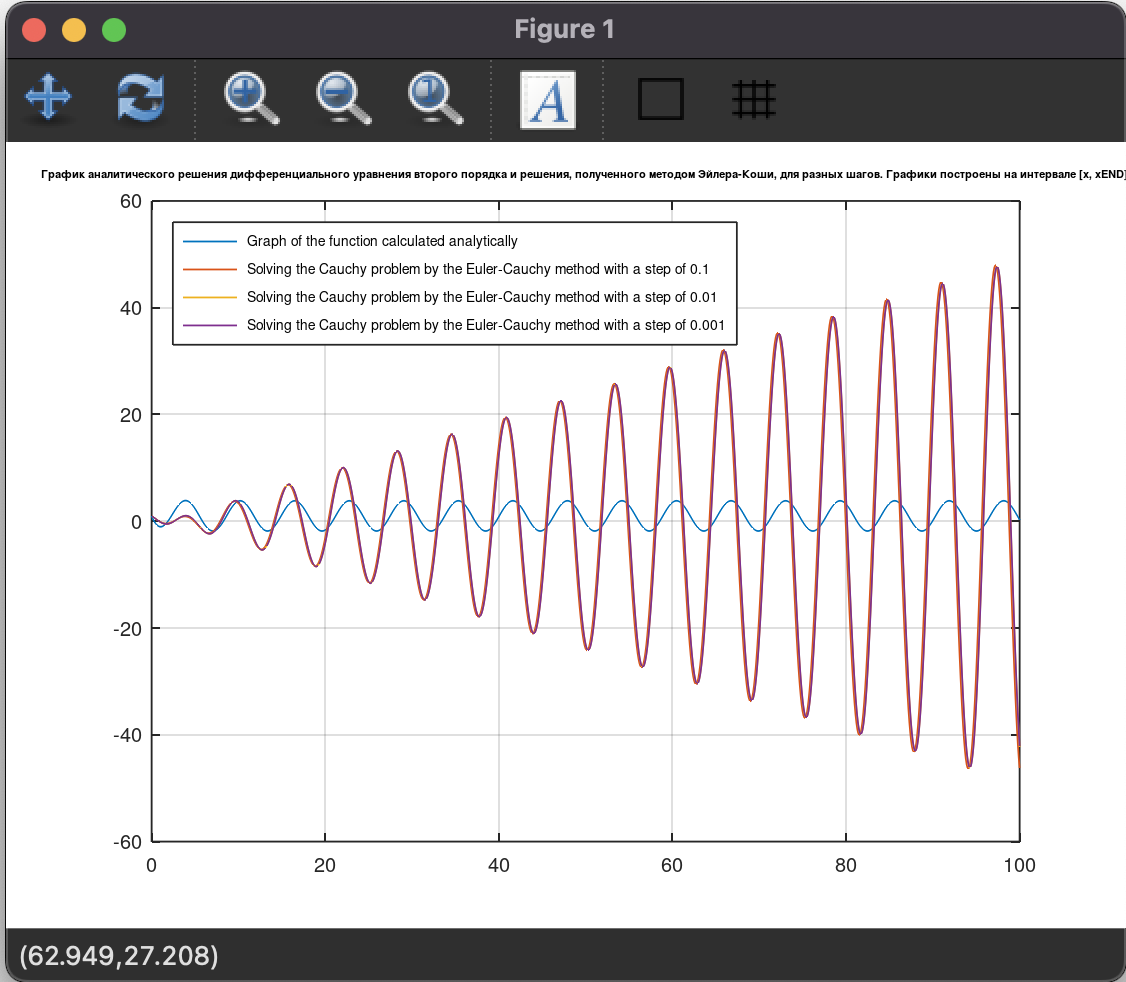
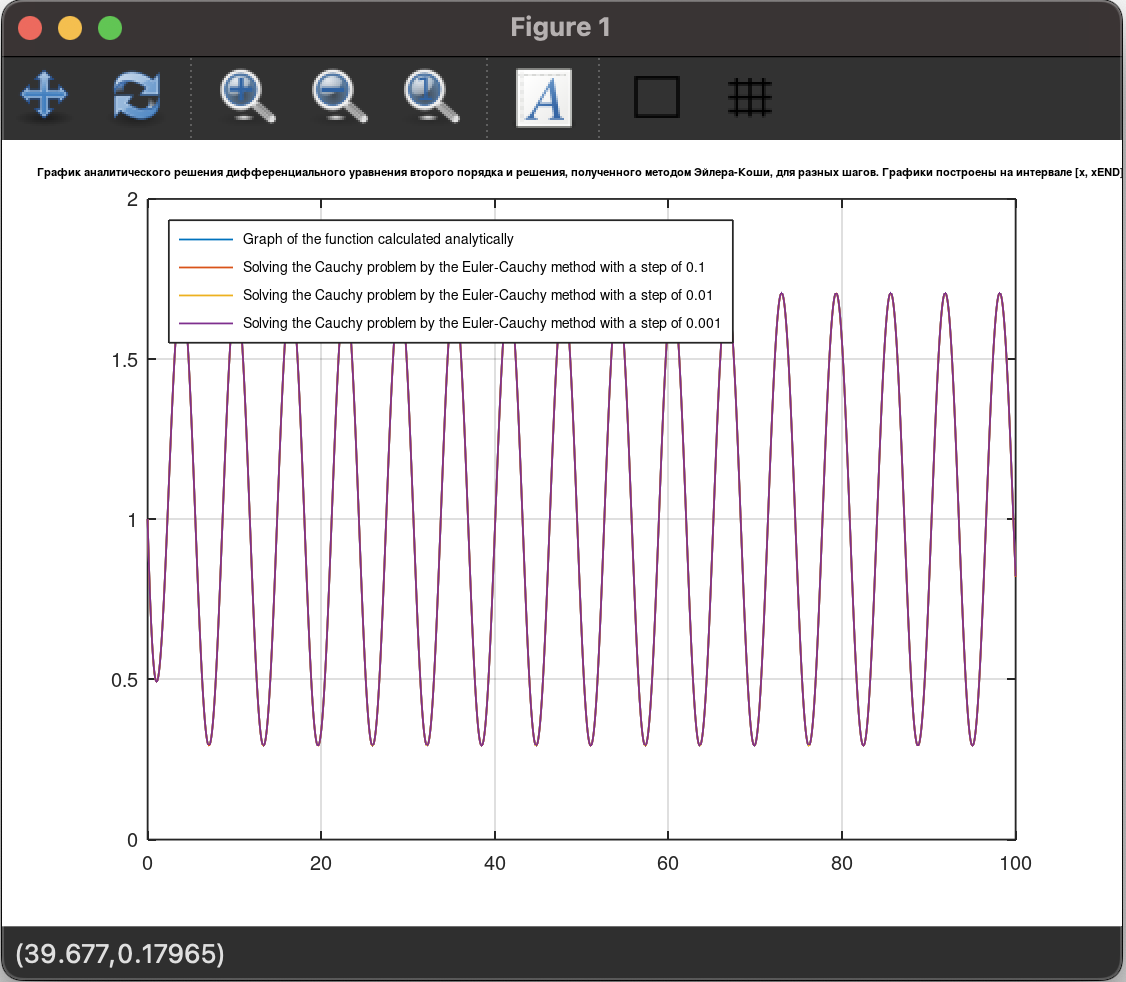
Fixes in lab 6

Changed region(s): [[0.0, 0.0, 1.0, 1.0], [0.5595, 0.0611, 0.6217, 0.1222], [0.6528, 0.0611, 0.6838, 0.1222]]

diff --git a/Practical work 6 - Solving ordinary differential equations/method_Euler_Cauchy.m b/Practical work 6 - Solving ordinary differential equations/method_Euler_Cauchy.m
@@ -8,18 +8,13 @@
 # Xend - до какой точки ищем решение.
 
 function [y_value, error] = method_Euler_Cauchy(x, y, step, xEND)
-  i=1;
-  y_value(i)=y(1);
-  error(i)=abs(y_value(i)-function_obtained_analytically(x));
-  x=x+step; 
-  i=i+1;
+  i=0;
 
   for k = x:step:xEND
-    y=y+(step/2)*(f(x,y)+f(x+step,y+step*f(x,y)));
-    y_value(i)=y(1);
-    error(i)=abs(y_value(i)-function_obtained_analytically(x));
-    x=x+step;
     i=i+1;
+    y_value(i)=y(1);
+    error(i)=abs(y_value(i)-function_obtained_analytically(k));
+    y=y+(step/2)*(f(k,y)+f(k+step,y+step*f(k,y)));
   endfor
-  
-  endfunction
+    
+endfunction

diff --git a/Practical work 6 - Solving ordinary differential equations/function_obtained_analytically.m b/Practical work 6 - Solving ordinary differential equations/function_obtained_analytically.m
@@ -5,5 +5,5 @@
 # y=-1*(1\2)*cos(x)-(1\2)*sin(x)+(1\2)*exp(-x)+1 
 
 function y = function_obtained_analytically(x)
-  y = -(1\2)*cos(x)-(1\2)*sin(x)+(1\2)*exp(-x)+1;
+  y = -(1/2)*cos(x)-(1/2)*sin(x)+(1/2)*exp(-x)+1;
   endfunction

diff --git a/Practical work 6 - Solving ordinary differential equations/f.m b/Practical work 6 - Solving ordinary differential equations/f.m
@@ -6,5 +6,5 @@ function result = f(x,y)
   y1=y(1);
   y2=y(2);
   result(1)=y2;
-  result(2)=sin(x)-y1;
+  result(2)=sin(x)-y2;
   endfunction
